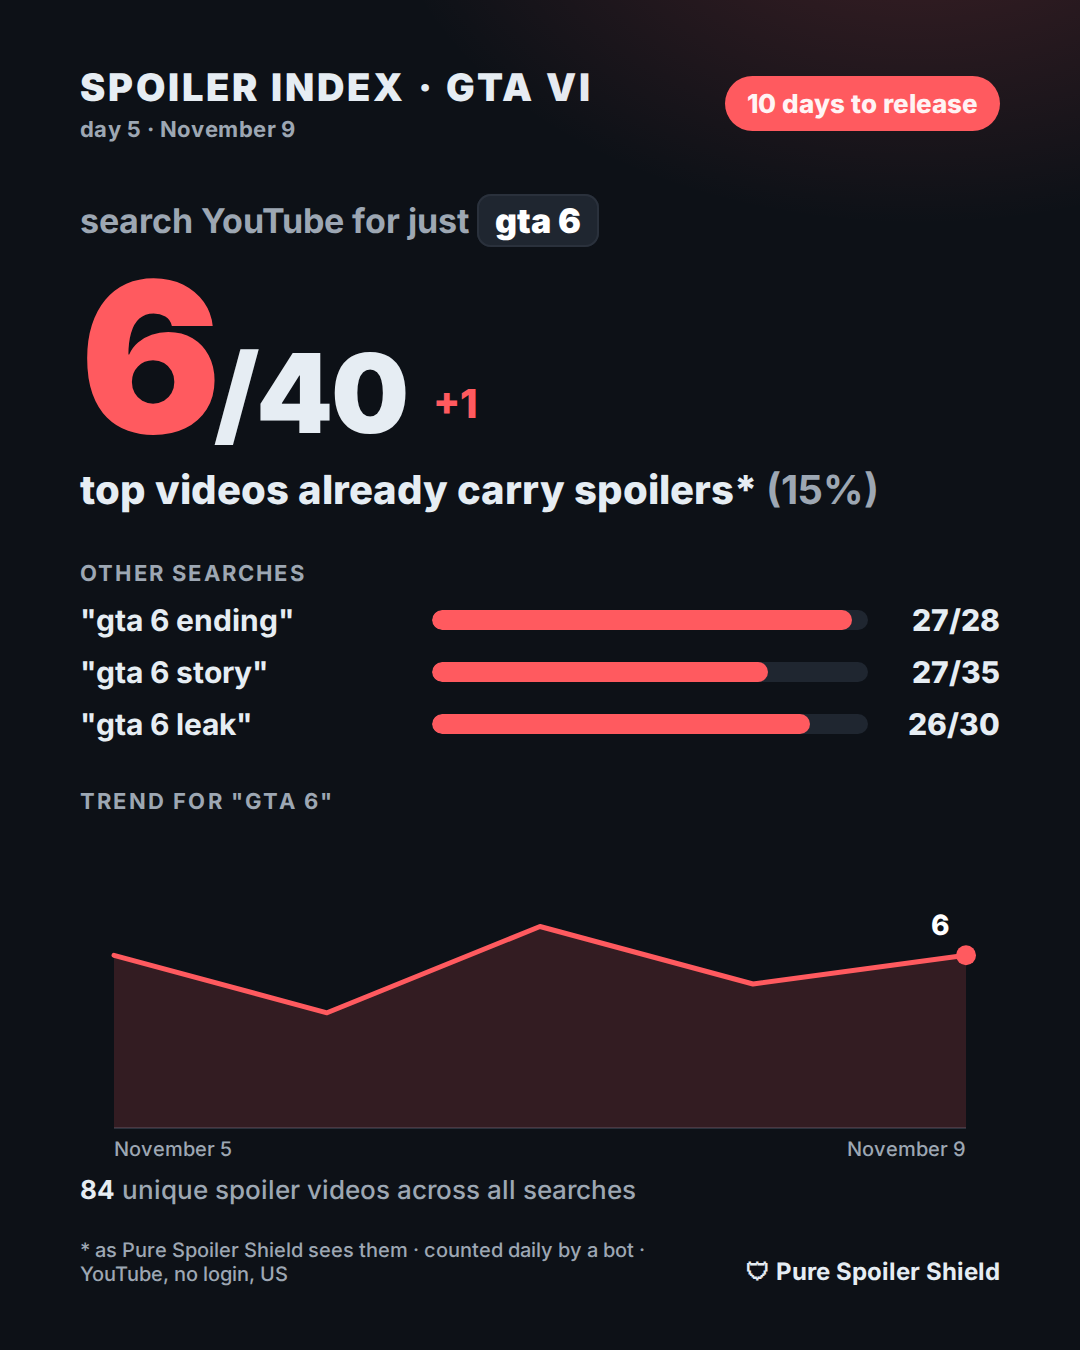
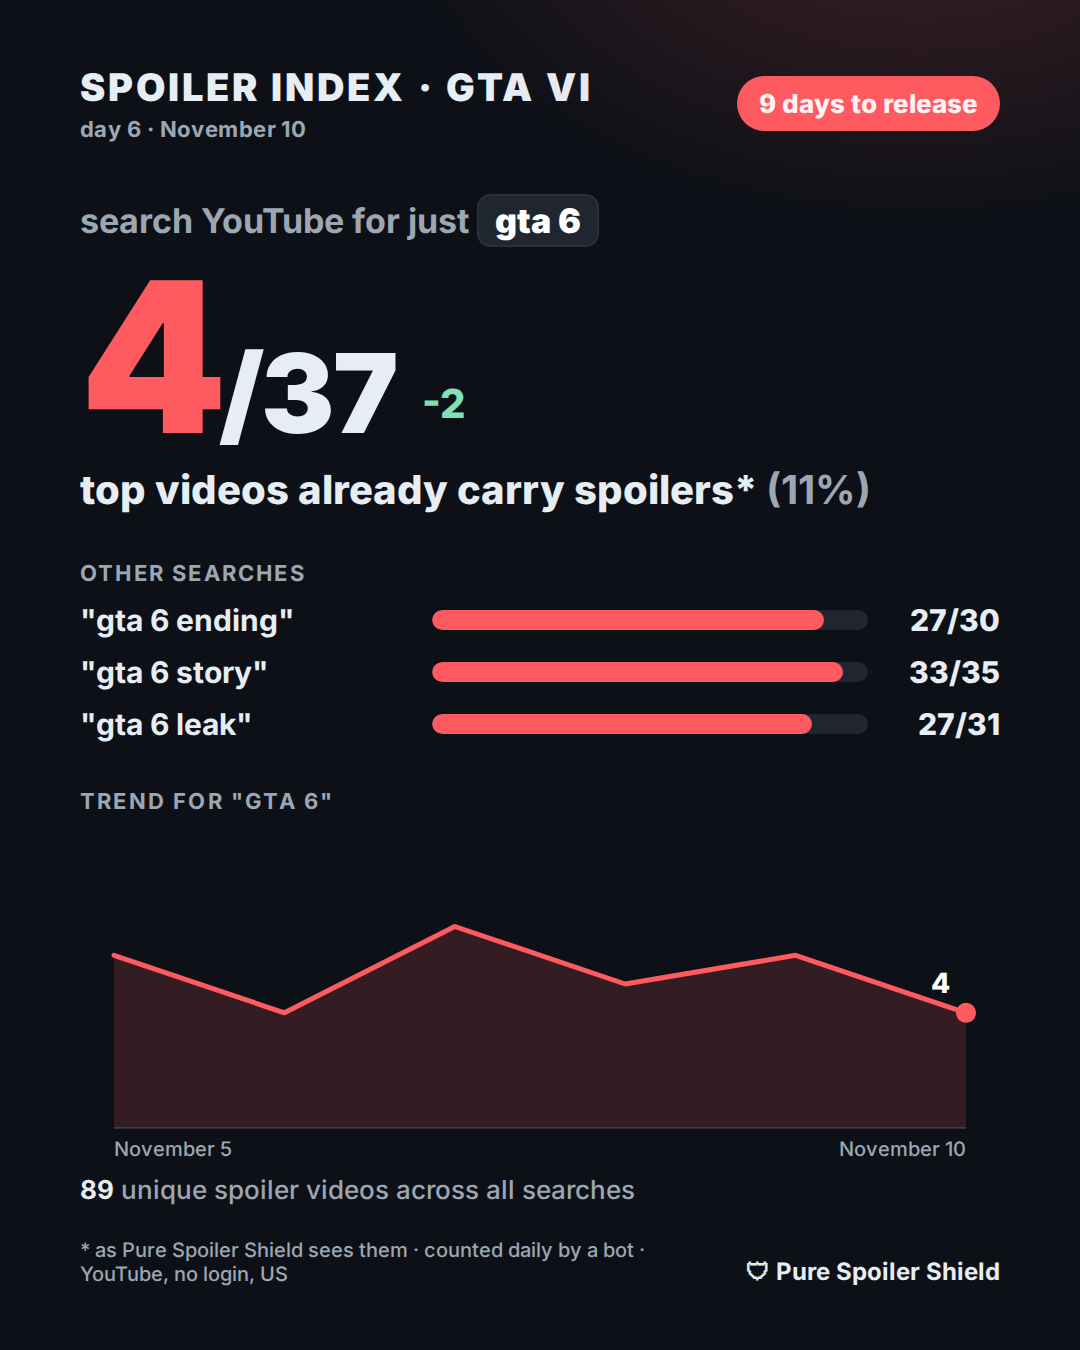
spoiler index: 2026-11-10

diff --git a/spoiler-index/index.html b/spoiler-index/index.html
@@ -4,24 +4,25 @@
 <meta charset="utf-8">
 <meta name="viewport" content="width=device-width, initial-scale=1">
 <title>GTA 6 Spoiler Index: how many YouTube results carry spoilers, counted daily</title>
-<meta name="description" content="Today 6 of the top 40 YouTube results for &quot;gta 6&quot; carry spoilers. Counted every day by a bot with no login, from 2026-11-05.">
+<meta name="description" content="Today 4 of the top 37 YouTube results for &quot;gta 6&quot; carry spoilers. Counted every day by a bot with no login, from 2026-11-05.">
 <link rel="canonical" href="https://qwemort.github.io/pure-guides/spoiler-index/">
 <link rel="stylesheet" href="../style.css">
 <meta property="og:title" content="GTA 6 Spoiler Index: how many YouTube results carry spoilers, counted daily">
-<meta property="og:description" content="Today 6 of the top 40 YouTube results for &quot;gta 6&quot; carry spoilers. Counted every day by a bot with no login, from 2026-11-05.">
+<meta property="og:description" content="Today 4 of the top 37 YouTube results for &quot;gta 6&quot; carry spoilers. Counted every day by a bot with no login, from 2026-11-05.">
 <meta property="og:image" content="https://qwemort.github.io/pure-guides/spoiler-index/latest-en.png">
 <meta name="twitter:card" content="summary_large_image">
-<script type="application/ld+json">{"@context":"https://schema.org","@type":"Dataset","name":"GTA 6 Spoiler Index","description":"Today 6 of the top 40 YouTube results for \"gta 6\" carry spoilers. Counted every day by a bot with no login, from 2026-11-05.","url":"https://qwemort.github.io/pure-guides/spoiler-index/","temporalCoverage":"2026-11-05/2026-11-09","isAccessibleForFree":true,"license":"https://creativecommons.org/licenses/by/4.0/","creator":{"@type":"Organization","name":"Pure guides"},"distribution":{"@type":"DataDownload","encodingFormat":"application/json","contentUrl":"https://qwemort.github.io/pure-guides/data/spoiler-index.json"}}</script>
+<script type="application/ld+json">{"@context":"https://schema.org","@type":"Dataset","name":"GTA 6 Spoiler Index","description":"Today 4 of the top 37 YouTube results for \"gta 6\" carry spoilers. Counted every day by a bot with no login, from 2026-11-05.","url":"https://qwemort.github.io/pure-guides/spoiler-index/","temporalCoverage":"2026-11-05/2026-11-10","isAccessibleForFree":true,"license":"https://creativecommons.org/licenses/by/4.0/","creator":{"@type":"Organization","name":"Pure guides"},"distribution":{"@type":"DataDownload","encodingFormat":"application/json","contentUrl":"https://qwemort.github.io/pure-guides/data/spoiler-index.json"}}</script>
 </head>
 <body>
 <main>
 <a class="brand" href="../">← Pure guides</a>
 <h1>GTA 6 Spoiler Index</h1>
-<p class="muted">Updated 2026-11-09 · day 5 · 10 days to release</p>
-<div class="note tldr"><strong>Today:</strong> search YouTube for just "gta 6" and <strong>6 of the top 40</strong> videos already carry spoilers. Across all four searches below there are <strong>84</strong> unique spoiler videos.</div>
-<figure><img src="latest-en.png" alt="GTA 6 spoiler index card for 2026-11-09" width="1080" height="1350"></figure>
+<p class="muted">Updated 2026-11-10 · day 6 · 9 days to release</p>
+<div class="note tldr"><strong>Today:</strong> search YouTube for just "gta 6" and <strong>4 of the top 37</strong> videos already carry spoilers. Across all four searches below there are <strong>89</strong> unique spoiler videos.</div>
+<figure><img src="latest-en.png" alt="GTA 6 spoiler index card for 2026-11-10" width="1080" height="1350"></figure>
 <h2>Every day</h2>
 <table><tr><th>Date</th><th>"gta 6"</th><th>"gta 6 ending"</th><th>"gta 6 story"</th><th>"gta 6 leak"</th><th>Unique spoiler videos</th></tr>
+<tr><td>2026-11-10</td><td><strong>4</strong> / 37</td><td>27 / 30</td><td>33 / 35</td><td>27 / 31</td><td>89</td></tr>
 <tr><td>2026-11-09</td><td><strong>6</strong> / 40</td><td>27 / 28</td><td>27 / 35</td><td>26 / 30</td><td>84</td></tr>
 <tr><td>2026-11-08</td><td><strong>5</strong> / 37</td><td>31 / 33</td><td>30 / 35</td><td>29 / 32</td><td>92</td></tr>
 <tr><td>2026-11-07</td><td><strong>7</strong> / 37</td><td>31 / 32</td><td>31 / 35</td><td>30 / 32</td><td>97</td></tr>
@@ -31,7 +32,7 @@
 <p>Raw numbers: <a href="../data/spoiler-index.json">spoiler-index.json</a> (free to reuse with a link back).</p>
 <h2>How it is counted</h2>
 <ul>
-<li>Once a day a bot opens youtube.com in a clean browser with <strong>no account and no history</strong> (US, English), runs the same four searches and takes the first 40 videos of each, Shorts included, ads excluded.</li>
+<li>Once a day a bot opens youtube.com in a clean browser with <strong>no account and no history</strong> (US, English), runs the same four searches and takes the first 37 videos of each, Shorts included, ads excluded.</li>
 <li>A video counts as a spoiler when <a href="https://chromewebstore.google.com/detail/aloilpojkoblacapdlknacjiljgjibng?utm_source=pureguides&amp;utm_medium=spoiler-index">Pure Spoiler Shield</a> with its default GTA VI list on the "spoilers only" level would blur it: GTA VI plus words like ending, leak, story, twist or a character name. Plain trailers and news do not count.</li>
 <li>It reads titles and text, not images, so it can miss a spoiler that is only in a thumbnail. The same searches run every day, so the trend is comparable even where single videos are judged wrong.</li>
 <li>Video titles are not published here, because they are the spoilers.</li>
